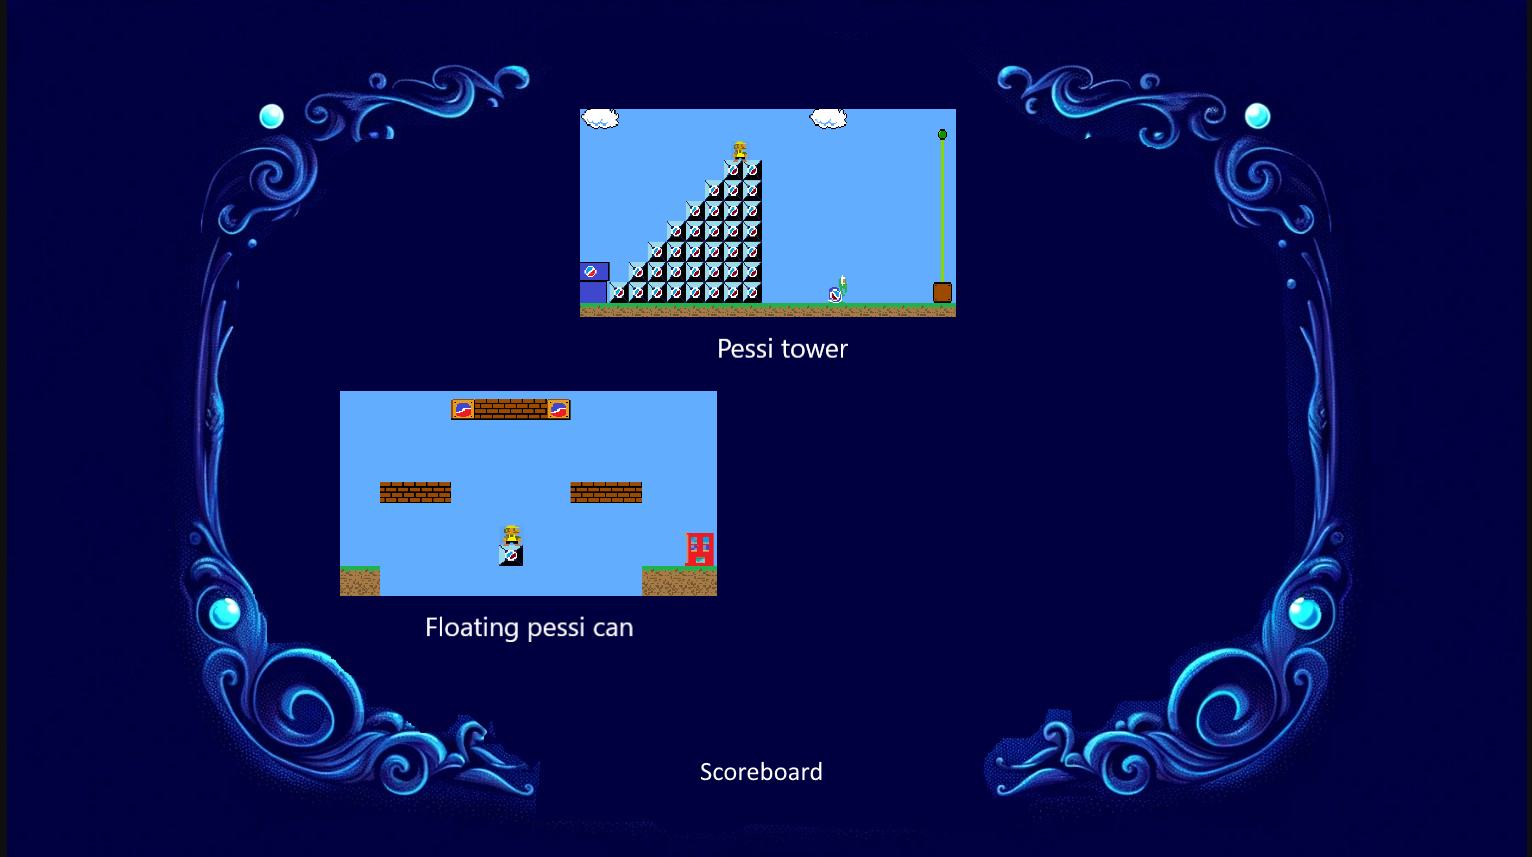
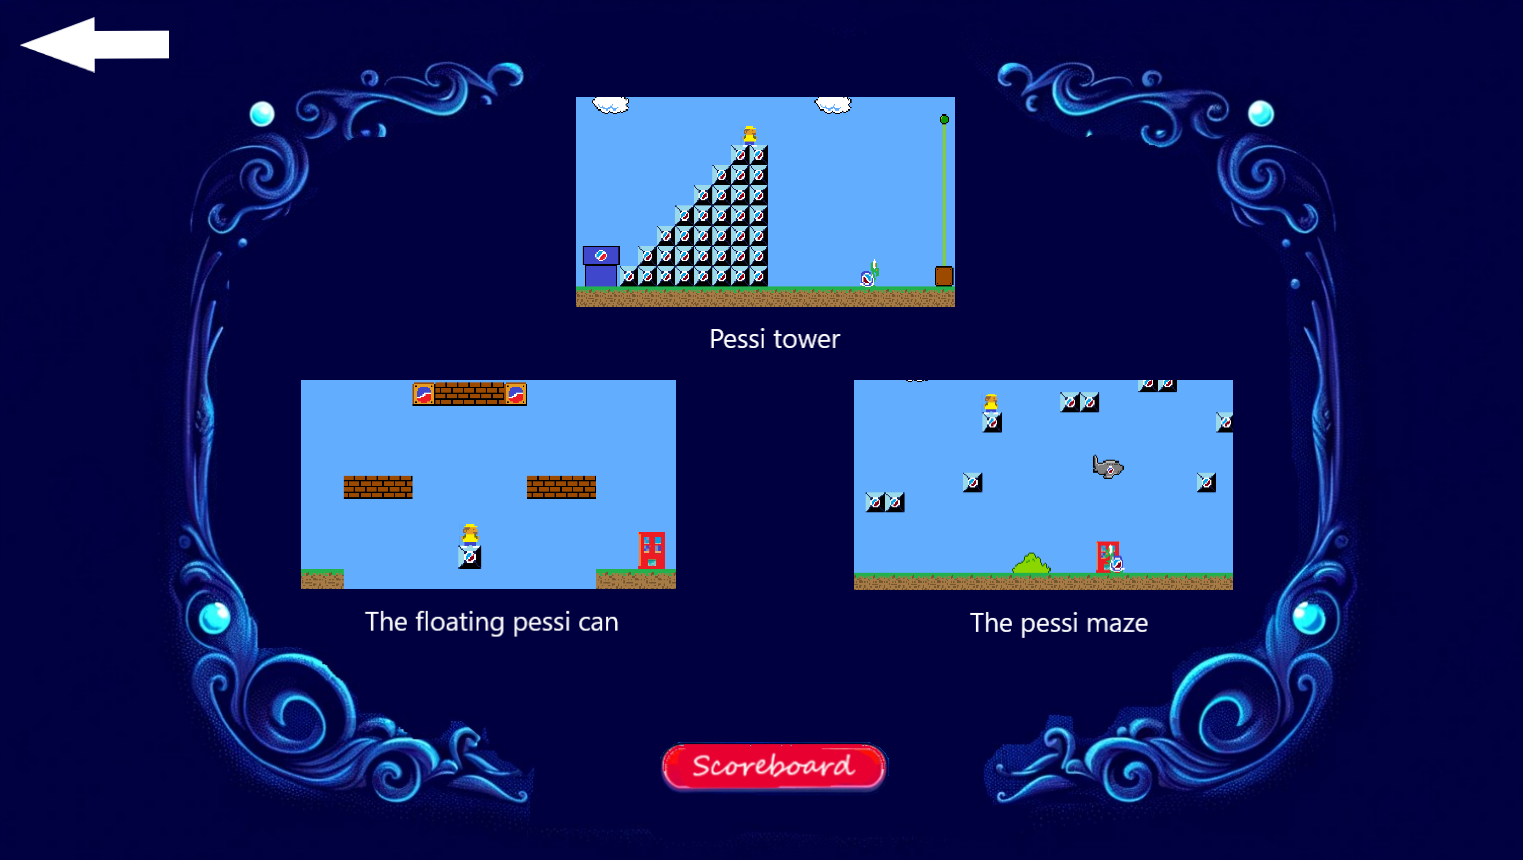
javadocs, changes to map, renamed pepsi to pessi, added a screen || done with olav

diff --git a/src/main/java/inf112/Entities/Blocks/Pessi.java b/src/main/java/inf112/Entities/Blocks/Pessi.java
@@ -14,13 +14,13 @@ import inf112.skeleton.app.MegaMarius;
  * Represents a Coin block with Pepsi inside
  * 
  * This class provieds functionality neccesary to hit 
- * coin blocks and give out a pepsi
+ * coin blocks and give out a pessi
  * 
  * @author CTRL-ALT-DEFEAT
  * @version 1.0
  * @since 2024-02
 */
-public class Pepsi extends Item{
+public class Pessi extends Item{
     FixtureDef fdef;
 
     /**
@@ -29,15 +29,15 @@ public class Pepsi extends Item{
      * @param x position x
      * @param y position y
      */
-    public Pepsi(ShowGame screen, float x, float y){
+    public Pessi(ShowGame screen, float x, float y){
         super(screen, x, y);
-        setRegion(screen.getAtlas().findRegion("pepsi"));
+        setRegion(screen.getAtlas().findRegion("pessi"));
         velocity = new Vector2(0.6f, 0);
     } 
 
     /**
-     * Function for defining the pepsi.
-     * Defines the pepsi after a headhit on a coin block with pepsi as a property.
+     * Function for defining the pessi.
+     * Defines the pessi after a headhit on a coin block with pessi as a property.
      */
     @Override
     public void defineItem() {
@@ -58,7 +58,7 @@ public class Pepsi extends Item{
     }
 
     /**
-     * Function for "drinking" a pepsi.
+     * Function for "drinking" a pessi.
      * checks if you are big marius, if not, you grow.
      * @param Marius the playable character
      */

diff --git a/src/main/java/inf112/Entities/Enemies/Spider.java b/src/main/java/inf112/Entities/Enemies/Spider.java
@@ -120,9 +120,8 @@ public class Spider extends Enemy{
     }
 
     /**
-     * Function for "drinking" a pepsi.
-     * checks if you are big marius, if not, you grow.
-     * @param Marius the playable character
+     * Function for drawing
+     * @param Batch the drawable batch
      */
     public void draw(Batch batch){
         if (!destroyed || stateTime < 1) {
@@ -130,11 +129,21 @@ public class Spider extends Enemy{
         }
     }
 
+    /**
+     * Function for setting an entity to destroy
+     * checks if an entity is hitonhead by marius
+     * @param Marius the playable character
+     */
     @Override
     public void hitOnHead(Marius marius) {
         setToDestroy = true;
     }
 
+    /**
+     * Function to check if enemy hit by other enemy is a turtle.
+     * checks if an entity is hit by an turtle whos moving.
+     * @param enemy the enemy who hit the other enemy.
+     */
     @Override
     public void hitByEnemy(Enemy enemy) {
         if(enemy instanceof Turtle && ((Turtle) enemy).getCurrentState() == Turtle.State.MOVING_SHELL)
@@ -143,6 +152,10 @@ public class Spider extends Enemy{
             revVelocity(true, false);
     }
 
+    /**
+     * Function for checking if entity is dead.
+     * test function
+     */
     public boolean entityIsDead(){
         return destroyed;
     }

diff --git a/src/main/java/inf112/Entities/Enemies/Turtle.java b/src/main/java/inf112/Entities/Enemies/Turtle.java
@@ -161,10 +161,10 @@ public class Turtle extends Enemy {
     }
 
     /**
-     * Check if enemy is hit on head by mairus.
+     * Check if turtle is hit on head by mairus.
      * 
      * If marius hits the turtle on his head, then
-     * the turtle dies and turns into a shell that moves.
+     * the turtle dies and turns into a shell that can move.
      * The shell can kill marius, and also other enemies.
      * 
      * @param marius Marius marius.
@@ -184,6 +184,10 @@ public class Turtle extends Enemy {
         }
     }
 
+    /**
+     * Function for drawing
+     * @param Batch the drawable batch
+     */
     public void draw(Batch batch){
         if (!destroyed) {
             super.draw(batch);
@@ -193,7 +197,7 @@ public class Turtle extends Enemy {
     /**
      * Changes the current state of turtle to moving shell and sets speed.
      * 
-     * @param speed
+     * @param speed speed of turtle
      */
     public void kick(int speed){
         velocity.x = speed;
@@ -210,9 +214,8 @@ public class Turtle extends Enemy {
     }
 
     /**
-     * 
-     * 
-     * @param enemy Enemy enemy.
+     * Function for checking if entity is dead.
+     * test function
      */
     @Override
     public void hitByEnemy(Enemy enemy) {

diff --git a/src/main/java/inf112/Entities/Blocks/Coin.java b/src/main/java/inf112/Entities/Blocks/Coin.java
@@ -55,8 +55,8 @@ public class Coin extends InteractiveTileObj{
             getCell().setTile(tileSet.getTile(BLANK_COIN)); //Set the graphic block to Blank Coin
             
             Display.updateScore(200); //Add score
-            if(object.getProperties().containsKey("pepsi")){ //if the property is pepsi, spawn pepsi. if not spawn a coin
-                screen.spawnItems(new ItemDef(new Vector2(body.getPosition().x, body.getPosition().y + 16/MegaMarius.PPM), Pepsi.class));
+            if(object.getProperties().containsKey("pessi")){ //if the property is pessi, spawn pessi. if not spawn a coin
+                screen.spawnItems(new ItemDef(new Vector2(body.getPosition().x, body.getPosition().y + 16/MegaMarius.PPM), Pessi.class));
                 music = manager.get("audio/music/coin.wav", Music.class);
                 music.setVolume(0.04f);
                 music.play(); // Comment this out to stop music from playing

diff --git a/src/main/java/inf112/Screens/ShowGame.java b/src/main/java/inf112/Screens/ShowGame.java
@@ -31,7 +31,7 @@ import com.badlogic.gdx.utils.viewport.Viewport;
 import inf112.skeleton.app.MegaMarius;
 import inf112.Entities.Item;
 import inf112.Entities.ItemDef;
-import inf112.Entities.Blocks.Pepsi;
+import inf112.Entities.Blocks.Pessi;
 import inf112.Entities.Enemies.Enemy;
 import inf112.Scenes.Display;
 import inf112.skeleton.MakeMap.MakeMap;
@@ -169,8 +169,8 @@ public class ShowGame implements Screen{
     public void handleSpawningItems(){
         if(!itemsToSpawn.isEmpty()){
             ItemDef itemDef = itemsToSpawn.poll();
-            if(itemDef.type == Pepsi.class){
-                items.add(new Pepsi(this, itemDef.positon.x, itemDef.positon.y));
+            if(itemDef.type == Pessi.class){
+                items.add(new Pessi(this, itemDef.positon.x, itemDef.positon.y));
             }
         }
         

diff --git a/src/test/java/inf112/Entities/Blocks/PepsiTest.java b/src/test/java/inf112/Entities/Blocks/PepsiTest.java
@@ -33,7 +33,7 @@ import inf112.skeleton.app.Marius;
 import inf112.skeleton.app.MegaMarius;
 
 public class PepsiTest {
-    Pepsi pepsi;
+    Pessi pepsi;
     RectangleMapObject object;
     TmxMapLoader mapLoader;
     String fileName = "MapAndTileset/level1.tmx";
@@ -74,12 +74,12 @@ public class PepsiTest {
         textureAtlas = new TextureAtlas("Characters/MegaMariusCharacters.pack");
         when(cScreen.getAtlas()).thenReturn(textureAtlas);
         //when(cScreen.getAtlas().findRegion("pepsi")).thenReturn(textureAtlas.findRegion("pepsi"));
-        pepsi = new Pepsi(cScreen, 0, 0);
+        pepsi = new Pessi(cScreen, 0, 0);
 	}
 
     @Test
     void createTest() {
-        pepsi.getClass().equals(Pepsi.class);
+        pepsi.getClass().equals(Pessi.class);
         assertEquals(false, pepsi.isDestroyed());
     }
 

diff --git a/src/test/java/inf112/skeleton/app/WorldContactListenerTest.java b/src/test/java/inf112/skeleton/app/WorldContactListenerTest.java
@@ -33,7 +33,7 @@ import com.badlogic.gdx.physics.box2d.EdgeShape;
 import com.badlogic.gdx.physics.box2d.FixtureDef;
 import com.badlogic.gdx.physics.box2d.World;
 
-import inf112.Entities.Blocks.Pepsi;
+import inf112.Entities.Blocks.Pessi;
 import inf112.Entities.Enemies.Spider;
 import inf112.Entities.Enemies.Turtle;
 import inf112.Scenes.Display;
@@ -104,7 +104,7 @@ public class WorldContactListenerTest {
     @Test
     void contactMariusItemTest(){
         Marius marius = new Marius(cScreen);
-        Pepsi pepsi = new Pepsi(cScreen, 0, 0);
+        Pessi pepsi = new Pessi(cScreen, 0, 0);
         assertEquals(2, world.getBodyCount());
         world.step(0, 0, 0);
         wListener.beginContact(world.getContactList().first());

diff --git a/src/main/java/inf112/Entities/InteractiveTileObj.java b/src/main/java/inf112/Entities/InteractiveTileObj.java
@@ -62,7 +62,7 @@ public abstract class InteractiveTileObj {
         TiledMapTileLayer layer = (TiledMapTileLayer) map.getLayers().get(1);
         return layer.getCell((int)(body.getPosition().x * MegaMarius.PPM / 16), (int)(body.getPosition().y * MegaMarius.PPM / 16));
     }
-    //Get a cellsfrom layer 1 but the one above the cell. !!NOT DONE
+    //Get a cellsfrom layer 1 but the one above the cell.
     public TiledMapTileLayer.Cell getCellAbove(){
         TiledMapTileLayer layer = (TiledMapTileLayer) map.getLayers().get(1);
         return layer.getCell((int)(body.getPosition().x * MegaMarius.PPM / 16), (int)(body.getPosition().y * MegaMarius.PPM / 16)+1);

diff --git a/src/main/java/inf112/skeleton/app/Marius.java b/src/main/java/inf112/skeleton/app/Marius.java
@@ -89,7 +89,7 @@ import inf112.Screens.ShowGameOver;
 			bigMariusRun = new Animation(0.1f, frames);
 			frames.clear();
 
-			// Animation when Marius gets pepsi
+			// Animation when Marius gets pessi
 			frames.add(new TextureRegion(screen.getAtlas().findRegion("big_mario"), 240, 0, 16, 32));
 			frames.add(new TextureRegion(screen.getAtlas().findRegion("big_mario"), 0, 0, 16, 32));
 			mariusGrow = new Animation(0.3f, frames);

diff --git a/src/main/java/inf112/Entities/Enemies/Enemy.java b/src/main/java/inf112/Entities/Enemies/Enemy.java
@@ -36,8 +36,8 @@ public abstract class Enemy extends Sprite{ //Abstract class for enemies.
 
     /**
      * Function to reverse velocity on wall hit
-     * @param x 
-     * @param y
+     * @param x Boolean to decide if this axis will reverse velocity
+     * @param y Boolean to decide if this axis will reverse velocity
      */
     public void revVelocity(boolean x, boolean y){
         if (x) {

diff --git a/src/test/java/inf112/skeleton/app/MariusTest.java b/src/test/java/inf112/skeleton/app/MariusTest.java
@@ -30,7 +30,7 @@ import com.badlogic.gdx.physics.box2d.BodyDef;
 import com.badlogic.gdx.physics.box2d.Box2D;
 import com.badlogic.gdx.physics.box2d.World;
 
-import inf112.Entities.Blocks.Pepsi;
+import inf112.Entities.Blocks.Pessi;
 import inf112.Entities.Enemies.Spider;
 import inf112.Entities.Enemies.Turtle;
 import inf112.Scenes.Display;
